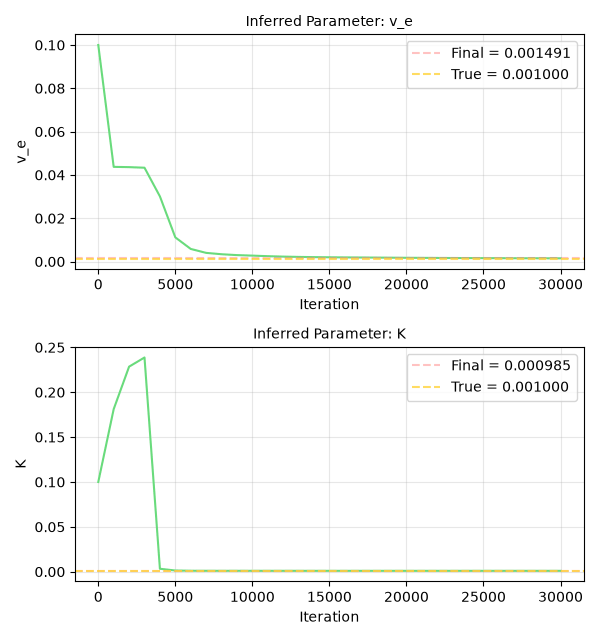
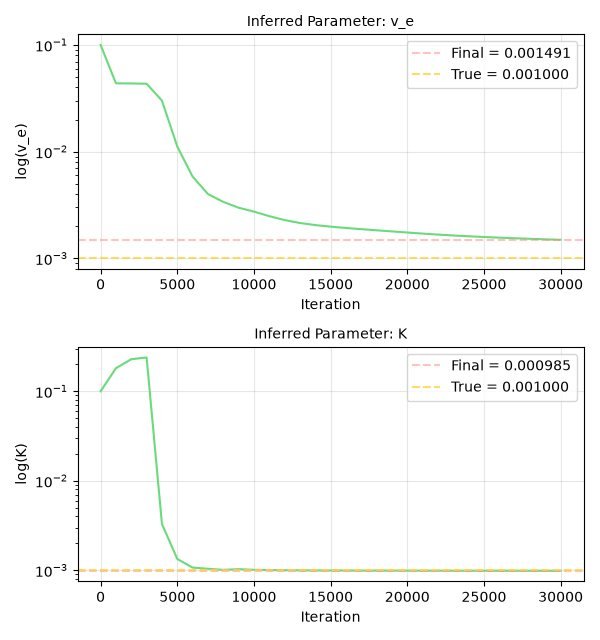
README: animations and results for the time-dependent DeepXDE examples
Line animations, Error Analysis surface comparisons and parameter-convergence
plots from full-settings GPU runs; Brinkman-Forchheimer's parameter plot now
on a log scale.

diff --git a/README.md b/README.md
@@ -1217,6 +1217,10 @@ $$\Large \frac{\partial u}{\partial t} + u\frac{\partial u}{\partial x} = \frac{
 
 **Result (RTX 4090):** L2 = 8.3e-4 ($t = 0$), 1.4e-2 ($t = 0.25$), 1.7e-2 ($t = 0.5$), 1.4e-2 ($t = 0.75$)
 
+![Burgers equation — PINN solution over time](assets/Images/DeepXDE/Burgers_equation/animation.gif)
+
+![Burgers equation — PINN vs reference, error analysis](assets/Images/DeepXDE/Burgers_equation/surface_comparison.png)
+
 </details>
 
 <details id="dx-burgers-equation-with-rar">
@@ -1233,6 +1237,10 @@ $$\Large \frac{\partial u}{\partial t} + u\frac{\partial u}{\partial x} = \frac{
 - **GUI recipe:** Quick Examples → Category **DeepXDE Forward** → **Burgers equation with RAR**
 
 **Result (RTX 4090):** L2 = 6.3e-4 ($t = 0$), 1.3e-2 ($t = 0.25$), 1.7e-2 ($t = 0.5$), 1.4e-2 ($t = 0.75$)
+
+![Burgers equation with RAR — PINN solution over time](assets/Images/DeepXDE/Burgers_equation_with_RAR/animation.gif)
+
+![Burgers equation with RAR — PINN vs reference, error analysis](assets/Images/DeepXDE/Burgers_equation_with_RAR/surface_comparison.png)
 
 </details>
 
@@ -1253,6 +1261,10 @@ The solution decays to about 2% of its initial size by $t = 1$, so the relative 
 
 **Result (RTX 4090):** L2 = 4.2e-4 ($t = 0$), 9.1e-4 ($t = 0.25$), 2.2e-3 ($t = 0.5$), 9.5e-3 ($t = 0.75$), 5.0e-2 ($t = 1$)
 
+![Heat equation — PINN solution over time](assets/Images/DeepXDE/Heat_equation/animation.gif)
+
+![Heat equation — PINN vs reference, error analysis](assets/Images/DeepXDE/Heat_equation/surface_comparison.png)
+
 </details>
 
 <details id="dx-heat-equation-with-resampling">
@@ -1271,6 +1283,10 @@ $$\Large \frac{\partial u}{\partial t} = 0.4\frac{\partial^2 u}{\partial x^2}, \
 
 **Result (RTX 4090):** L2 = 1.6e-4 ($t = 0$), 4.6e-4 ($t = 0.25$), 5.8e-4 ($t = 0.5$), 4.1e-3 ($t = 0.75$), 1.4e-2 ($t = 1$)
 
+![Heat equation with resampling — PINN solution over time](assets/Images/DeepXDE/Heat_equation_with_resampling/animation.gif)
+
+![Heat equation with resampling — PINN vs reference, error analysis](assets/Images/DeepXDE/Heat_equation_with_resampling/surface_comparison.png)
+
 </details>
 
 <details id="dx-diffusion-equation">
@@ -1287,6 +1303,10 @@ $$\Large \frac{\partial u}{\partial t} = \frac{\partial^2 u}{\partial x^2} - e^{
 - **GUI recipe:** Quick Examples → Category **DeepXDE Forward** → **Diffusion equation**
 
 **Result (RTX 4090):** L2 = 2.5e-3 ($t = 0$), 2.9e-3 ($t = 0.25$), 1.8e-3 ($t = 0.5$), 4.1e-3 ($t = 0.75$), 2.0e-2 ($t = 1$)
+
+![Diffusion equation — PINN solution over time](assets/Images/DeepXDE/Diffusion_equation/animation.gif)
+
+![Diffusion equation — PINN vs reference, error analysis](assets/Images/DeepXDE/Diffusion_equation/surface_comparison.png)
 
 </details>
 
@@ -1305,6 +1325,10 @@ $$\Large \frac{\partial u}{\partial t} = \frac{\partial^2 u}{\partial x^2} - e^{
 
 **Result (RTX 4090):** L2 = 9.4e-8 ($t = 0$), 1.6e-4 ($t = 0.25$), 4.6e-4 ($t = 0.5$), 1.3e-3 ($t = 0.75$), 2.8e-3 ($t = 1$)
 
+![Diffusion equation with hard IC and BC — PINN solution over time](assets/Images/DeepXDE/Diffusion_equation_with_hard_IC_and_BC/animation.gif)
+
+![Diffusion equation with hard IC and BC — PINN vs reference, error analysis](assets/Images/DeepXDE/Diffusion_equation_with_hard_IC_and_BC/surface_comparison.png)
+
 </details>
 
 <details id="dx-diffusion-equation-with-resampling">
@@ -1322,6 +1346,10 @@ $$\Large \frac{\partial u}{\partial t} = \frac{\partial^2 u}{\partial x^2} - e^{
 - **GUI recipe:** Quick Examples → Category **DeepXDE Forward** → **Diffusion equation with resampling**
 
 **Result (RTX 4090):** L2 = 1.8e-2 ($t = 0$), 2.5e-2 ($t = 0.25$), 1.5e-2 ($t = 0.5$), 1.4e-2 ($t = 0.75$), 4.3e-2 ($t = 1$)
+
+![Diffusion equation with resampling — PINN solution over time](assets/Images/DeepXDE/Diffusion_equation_with_resampling/animation.gif)
+
+![Diffusion equation with resampling — PINN vs reference, error analysis](assets/Images/DeepXDE/Diffusion_equation_with_resampling/surface_comparison.png)
 
 </details>
 
@@ -1342,6 +1370,10 @@ DeepXDE's own script, run unchanged on the same GPU, ends with a similar loss (a
 
 **Result (RTX 4090):** L2 = 9.9e-8 ($t = 0$), 1.4e-2 ($t = 0.25$), 3.4e-2 ($t = 0.5$), 6.7e-2 ($t = 0.75$), 0.11 ($t = 1$)
 
+![Diffusion-reaction equation — PINN solution over time](assets/Images/DeepXDE/Diffusion_reaction_equation/animation.gif)
+
+![Diffusion-reaction equation — PINN vs reference, error analysis](assets/Images/DeepXDE/Diffusion_reaction_equation/surface_comparison.png)
+
 </details>
 
 <details id="dx-allen-cahn-equation">
@@ -1358,6 +1390,10 @@ $$\Large \frac{\partial u}{\partial t} = 0.001\frac{\partial^2 u}{\partial x^2} 
 - **GUI recipe:** Quick Examples → Category **DeepXDE Forward** → **Allen-Cahn equation**
 
 **Result (RTX 4090):** L2 = 9.5e-8 ($t = 0$), 1.9e-3 ($t = 0.25$), 5.2e-3 ($t = 0.5$), 1.3e-2 ($t = 0.75$), 2.9e-2 ($t = 1$)
+
+![Allen-Cahn equation — PINN solution over time](assets/Images/DeepXDE/Allen_Cahn_equation/animation.gif)
+
+![Allen-Cahn equation — PINN vs reference, error analysis](assets/Images/DeepXDE/Allen_Cahn_equation/surface_comparison.png)
 
 </details>
 
@@ -1378,6 +1414,10 @@ $$\Large \frac{\partial^2 u}{\partial t^2} - \frac{\partial^2 u}{\partial x^2} +
 
 **Result (RTX 4090):** L2 = 1.4e-3 ($t = 0$), 1.6e-2 ($t = 2.5$), 8.5e-2 ($t = 5$), 6.5e-2 ($t = 7.5$), 8.1e-2 ($t = 10$)
 
+![Klein-Gordon equation — PINN solution over time](assets/Images/DeepXDE/Klein_Gordon_equation/animation.gif)
+
+![Klein-Gordon equation — PINN vs reference, error analysis](assets/Images/DeepXDE/Klein_Gordon_equation/surface_comparison.png)
+
 </details>
 
 <details id="dx-schr-dinger-equation">
@@ -1395,6 +1435,10 @@ $$\Large i\frac{\partial h}{\partial t} + \frac{1}{2}\frac{\partial^2 h}{\partia
 - **GUI recipe:** Quick Examples → Category **DeepXDE Forward** → **Schrödinger equation**
 
 **Result (RTX 4090):** L2 of $|h|$ = 1.5e-3 ($t = 0$), 3.2e-2 ($t = 0.25$), 5.8e-2 ($t = 0.5$), 0.12 ($t = 0.75$), 0.14 ($t = 1$), 0.13 ($t = 1.25$), 8.6e-2 ($t = 1.5$)
+
+![Schrödinger equation — PINN solution over time](assets/Images/DeepXDE/Schr_dinger_equation/animation.gif)
+
+![Schrödinger equation — PINN vs reference, error analysis](assets/Images/DeepXDE/Schr_dinger_equation/surface_comparison.png)
 
 </details>
 
@@ -1434,6 +1478,10 @@ $$\Large \frac{\partial V}{\partial \tau} = \frac{\sigma^2}{2}S^2\frac{\partial^
 
 **Result (RTX 4090):** L2 = 5.7e-4 ($t = 0.25$), 3.2e-4 ($t = 0.5$), 4.3e-4 ($t = 1$)
 
+![Black-Scholes equation (call option) — PINN solution over time](assets/Images/DeepXDE/Black_Scholes_equation_call_option/animation.gif)
+
+![Black-Scholes equation (call option) — PINN vs reference, error analysis](assets/Images/DeepXDE/Black_Scholes_equation_call_option/surface_comparison.png)
+
 </details>
 
 <details id="dx-american-put-option">
@@ -1452,6 +1500,8 @@ $$\Large \min\left(-\mathcal{L}V,\ V - \max(K - S, 0)\right) = 0, \qquad \mathca
 - **GUI recipe:** Quick Examples → Category **DeepXDE Forward** → **American put option**
 
 **Result (RTX 4090):** trained without errors; no bundled reference to compare against
+
+![American put option — PINN solution over time](assets/Images/DeepXDE/American_put_option/animation.gif)
 
 </details>
 
@@ -1473,6 +1523,12 @@ $$\Large \frac{\partial u}{\partial t} = C\frac{\partial^2 u}{\partial x^2} - e^
 
 **Result (RTX 4090):** $C$ = 0.9987 (true 1); L2 = 1.5e-3 ($t = 0$), 2.1e-3 ($t = 0.25$), 1.8e-3 ($t = 0.5$), 1.7e-3 ($t = 0.75$), 5.5e-3 ($t = 1$)
 
+![Inverse: diffusion equation — PINN solution over time](assets/Images/DeepXDE/Inverse_diffusion_equation/animation.gif)
+
+![Inverse: diffusion equation — PINN vs reference, error analysis](assets/Images/DeepXDE/Inverse_diffusion_equation/surface_comparison.png)
+
+![Inverse: diffusion equation — inferred parameters during training](assets/Images/DeepXDE/Inverse_diffusion_equation/param_plot.png)
+
 </details>
 
 <details id="dx-inverse-diffusion-reaction-system">
@@ -1490,6 +1546,10 @@ $$\Large \frac{\partial C_A}{\partial t} = D\frac{\partial^2 C_A}{\partial x^2} 
 - **GUI recipe:** Quick Examples → Category **DeepXDE Inverse** → **Inverse: diffusion-reaction system**
 
 **Result (RTX 4090):** $k_f$ = 0.0992 (true 0.1), $D$ = 1.995 (true 2)
+
+![Inverse: diffusion-reaction system — PINN solution over time](assets/Images/DeepXDE/Inverse_diffusion_reaction_system/animation.gif)
+
+![Inverse: diffusion-reaction system — inferred parameters during training](assets/Images/DeepXDE/Inverse_diffusion_reaction_system/param_plot.png)
 
 </details>
 
